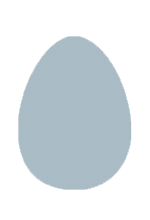
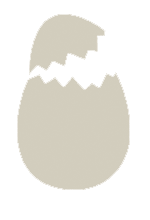
pre-midnight jam

diff --git a/index.html b/index.html
@@ -95,14 +95,6 @@
 
 		<div id='lessonsContent'>
 			<div class='contentDiv'>
-
-				<select id="lessonSelect">
-					<option value="initial" selected="selected" disabled="disabled">Pick a lesson type</option>
-					<option value="private">Private Lessons</option>
-					<option value="group">Group Lessons</option>
-					<option value="delf">DELF Lessons</option>
-				</select>
-
 				<!--Private Content-->
 				<div id="private" class="subContent">
 					<h2>How they work</h2>
@@ -113,20 +105,20 @@
 					<h2>Fees</h2>
 					<table id="privateFees">
 						<tr>
-							<td><strong>#Students</strong></td>
-							<td><strong>Price</strong></td>
+							<th>#Students</th>
+							<th>Price</th>
 						</tr>
 						<tr>
-							<td>1</td>
-							<td>$80/hr</td>
+							<td id="privateAlternate">1</td>
+							<td id="privateAlternate">$80/hr</td>
 						</tr>
 						<tr>
 							<td>2</td>
 							<td>$115/hr</td>
 						</tr>
 						<tr>
-							<td>3</td>
-							<td>$155/hr</td>
+							<td id="privateAlternate">3</td>
+							<td id="privateAlternate">$155/hr</td>
 						</tr>
 						<tr>
 							<td>4</td>
@@ -158,21 +150,21 @@
 					<h3>Consolidation - 10 weeks 1hr/wk</h3>
 					<p>Whether you feel you’d like to ‘put the brakes on’ your learning for a little while or whether you’d like to reinforce what you’ve learned while continuing on with your Key Courses, our new Monday night Consolidation Courses could be just what you’re looking for.These courses run throughout the year in ten-week blocks and cost $399. The first time you sign up, you’ll receive a workbook which is yours to keep. This workbook is designed to encourage you to speak.</p>
 					<h2>What's my level?</h2>
-					<table>
+					<table id="groupLevel">
 						<tr>
-							<td>egg</td>
-							<td>crac</td>
-							<td>chic</td>
-							<td>roos</td>
+							<th id="egg"></td>
+							<th id="crack"></td>
+							<th id="chick"></td>
+							<th id="rooster"></td>
 						</tr>
 						<tr>
-							<th>Absolute Beginners</th>
-							<th>Beginners</th>
-							<th>Intermediate</th>
-							<th>Advanced</th>
+							<td class="blueEgg"><strong>Absolute Beginners</strong></td>
+							<td class="greyCrack"><strong>Beginners</strong></td>
+							<td class="greyChick"><strong>Intermediate</strong></td>
+							<td class="redRooster"><strong>Advanced</strong></td>
 						</tr>
 						<tr>
-							<td>
+							<td class="blueEgg">
 								<p>For you if you have done:</p>
 								<ul>
 									<li>no French before at all</li>
@@ -180,7 +172,7 @@
 									<li>some French but wants to start afresh</li>
 								</ul>
 							</td>
-							<td>
+							<td class="greyCrack">
 								<p>For you if you have done:</p>
 								<ul>
 									<li>a moderate amount of French in the past</li>
@@ -188,7 +180,7 @@
 									<li>and intensive course in the past</li>
 								</ul>
 							</td>
-							<td>
+							<td class="greyChick">
 								<p>For you if you have done:</p>
 								<ul>
 									<li>quite a lot of French recently</li>
@@ -196,27 +188,26 @@
 									<li>some French at Uni but it was a long time ago...</li>
 								</ul>
 							</td>
-							<td>
+							<td class="redRooster">
 								<p>For you if you have done:</p>
 								<ul>
 									<li>have had a prolonged exposure to French</li>
 									<li>feel comfortable speaking exclusively in French</li>
-									<li></li>
 								</ul>
 							</td>
 						</tr>
 						<tr>
-							<td>
-								<div><p>more details</p></div>
+							<td class="blueEgg">
+								<p>more details</p>
 							</td>
-							<td>
-								<div><p>more details</p></div>
+							<td class="greyCrack">
+								<p>more details</p>
 							</td>
-							<td>
-								<div><p>more details</p></div>
+							<td class="greyChick">
+								<p>more details</p>
 							</td>
-							<td>
-								<div><p>more details</p></div>
+							<td class="redRooster">
+								<p>more details</p>
 							</td>
 						</tr>
 					</table>
@@ -227,7 +218,7 @@
 					<p><strong>Please note:</strong> if you are an Advanced student and you wish to practice your speaking, we also run an Advanced Conversation course at our Newstead office. See schedule for details.</p>
 					<p>If you are still unsure of your level, please <strong><a href="#contactBanner">contact us</a>.</strong> We'd be very happy to help.</p>
 					<h2>Audio support</h2>
-					<p>Lorem ipsum dolor sit amet, consectetur adipiscing elit, sed do eiusmod tempor incididunt ut labore et dolore magna aliqua. Ut enim ad minim veniam, quis nostrud exercitation ullamco laboris nisi ut aliquip ex ea commodo consequat. Duis aute irure dolor in reprehenderit in voluptate velit esse cillum dolore eu fugiat nulla pariatur. Excepteur sint occaecat cupidatat non proident, sunt in culpa qui officia deserunt mollit anim id est laborum.</p>
+					<p>[Insert explanation]</p>
 					<h3>Key courses</h3>
 					<a href="https://www.youtube.com/user/katrinawaugh/videos"><p>Absolute Beginner</p></a>
 					<a href="https://www.youtube.com/user/katrinawaugh/videos"><p>Beginner</p></a>
@@ -272,13 +263,13 @@
 						<li>Take advantage of our .Perks. program or</li>
 						<li>Pay upfront for 6 or 12 months to enjoy even greater benefits. </li>
 					</ul>
-					<p>Please be sure to read our <strong><a href="t&c.html">Terms and Conditions</a></strong> before you book a course. <em>Merci</em>.</p>
+					<p>Please be sure to read our <strong><a href="t&c.html">Terms and Conditions</a></strong> before you book a course. <em>Merci</em>.</p><!-- 
 					<p><img src="/storage/Title%20-%20Pay%20individually%20%20French%20lessons%20Brisbane.png?__SQUARESPACE_CACHEVERSION=1371017564672" alt=""></p>
 					<p>These are our standard course fees. </p>
 					<p><img src="/storage/dec-2014/Group%20lessons%20%20Fees%20%20Table%20of%20Fees%20%20French%20lessons%20Brisbane.png?__SQUARESPACE_CACHEVERSION=1418367326086" alt=""><br></p>
 					<p><img src="/storage/Title%20-%20.Perks.%20program%20%20French%20lessons%20Brisbane.png?__SQUARESPACE_CACHEVERSION=1418343264820" alt=""></p>
 					<p> Our .Perks. program allows you to benefit from a 5% reduction each time you satisfy one of the following three criteria. This means you could end up with a saving of 15%, which is a .Perk. in anyone's language.  </p>
-					<p><img src="/storage/The%20.Perks.%20graphic%20%20French%20lessons%20Brisbane.png?__SQUARESPACE_CACHEVERSION=1371023215054" alt="" naptha_cursor="text"></p>
+					<p><img src="/storage/The%20.Perks.%20graphic%20%20French%20lessons%20Brisbane.png?__SQUARESPACE_CACHEVERSION=1371023215054" alt="" naptha_cursor="text"></p> -->
 					<p><strong>.catch the worm. </strong></p>
 					<p>Book and pay before the nominated date to make sure you get exactly the class you want (and at a special price). See below for dates.</p>
 					<p><strong>take 5% off</strong></p>
@@ -288,13 +279,13 @@
 					<p><strong>.teacher's pet.</strong></p>
 					<p>Do you just love your French? Is it your 'thing'? If so, you're probably so keen that you'd even consider signing up for two different classes a week, to really accelerate your French. You're such a <a href="http://www.wordreference.com/fren/chouchou">chouchou</a>, we think you deserve a special price.</p>
 					<p><strong>take 5% off</strong></p>
-					<p><strong><img src="/storage/dec-2014/Group%20lessons%20%20Fees%20%20Table%20Catch%20the%20Worm%20dates%20%20French%20lessons%20Brisbane.png?__SQUARESPACE_CACHEVERSION=1418702803336" alt=""><br></strong></p>
-					<p><img src="/storage/Title-%20pay%20up%20front%20%20French%20lessons%20Brisbane.png?__SQUARESPACE_CACHEVERSION=1418366975161" alt=""></p>
+					<!-- <p><strong><img src="/storage/dec-2014/Group%20lessons%20%20Fees%20%20Table%20Catch%20the%20Worm%20dates%20%20French%20lessons%20Brisbane.png?__SQUARESPACE_CACHEVERSION=1418702803336" alt=""><br></strong></p>
+					<p><img src="/storage/Title-%20pay%20up%20front%20%20French%20lessons%20Brisbane.png?__SQUARESPACE_CACHEVERSION=1418366975161" alt=""></p> -->
 					<p>If you are really committed to learning French, like to be organised and want to reduce the amount of administration in your life, this option could be for you. No invoices, just the satisfaction of knowing your French is taken care of for the next six or twelve months. You just have to turn up.</p>
 					<p>We also know life changes, which is why we offer generous deferral options with our 'pay up front' plan.  You also benefit from a discount of more than 10%.</p>
 					<p>6 months - 10 week deferral option</p>
 					<p>12 months - 12 week deferral option</p>
-					<p><img src="/storage/2015/Fees%20%206%20and%2012%20months%20graphic%20%20French%20lessons%20Brisbane.png?__SQUARESPACE_CACHEVERSION=1431682277854" alt=""></p>
+					<!-- <p><img src="/storage/2015/Fees%20%206%20and%2012%20months%20graphic%20%20French%20lessons%20Brisbane.png?__SQUARESPACE_CACHEVERSION=1431682277854" alt=""></p> -->
 					<p>*Please note:  no other discounts apply. </p>
 				</div>
 

diff --git a/script/mainScript.js b/script/mainScript.js
@@ -28,11 +28,7 @@ function init(){
 		links[i].addEventListener("mouseout", linkMouseOut, false);
 	}
 
-	textInitialise();
-	document.getElementById("lessonSelect").value="initial";
-	document.getElementById("termSelect").value="initial";
-	document.getElementById("locationSelect").value="initial";
-
+	lessonInitialise();
 
 	if (document.getElementById('messageBox').value != 'Message'){
 		document.getElementById('messageBox').style.color = 'white';
@@ -42,12 +38,6 @@ function init(){
 	window.emailFilled = false;
 	window.subjectFilled = false;
 	window.messageFilled = false;
-
-	/*Event Listeners*/
-	window.addEventListener("scroll", offsetParallaxBackgrounds, false);
-	window.addEventListener("scroll", highlightCurrentSection, false);
-	document.getElementById('echantillonSignButton').addEventListener("click", togglePopup, false);
-	document.getElementById("lessonSelect").addEventListener("change",lessonUpdate,false);
 	
 	window.contactForms = document.getElementsByClassName('formInput');
 	for (var i = 0; i < contactForms.length; i++){
@@ -72,7 +62,9 @@ function init(){
 	window.addEventListener("scroll", highlightCurrentSection, false);
 	document.getElementById('echantillonSignButton').addEventListener("click", togglePopup, false);
 	document.getElementById('FAQbutton').addEventListener("click", togglePopup, false);
-	document.getElementById("lessonSelect").addEventListener("change",lessonUpdate,false);
+	document.getElementById("privateSelect").addEventListener("click",lessonUpdate,false);
+	document.getElementById("groupSelect").addEventListener("click",lessonUpdate,false);
+	document.getElementById("delfSelect").addEventListener("click",lessonUpdate,false);
 	document.getElementById("termSelect").addEventListener("change",tableUpdate,false);
 	document.getElementById("locationSelect").addEventListener("change",tableUpdate,false);
 	document.getElementById("wtermSelect").addEventListener("change",workUpdate,false);
@@ -421,23 +413,24 @@ function init(){
 		}
 
 	/*Lessons Content Updating*/
-	function lessonUpdate(){
-		if(document.getElementById("lessonSelect").value=="private"){
+	function lessonUpdate(event){
+		var button = event.target.id;
+		if (button == "privateSelect"){
 			zUpdate(1,0,0);
 			opacityUpdate(1,0,0);
 			document.getElementById("lessonsContent").style.height=String(document.getElementById("private").offsetHeight+140)+"px";
-		} else if(document.getElementById("lessonSelect").value=="group"){
+		} else if (button == "groupSelect"){
 			zUpdate(0,1,0);
 			opacityUpdate(0,1,0);
 			document.getElementById("lessonsContent").style.height=String(document.getElementById("group").offsetHeight+140)+"px";
-		} else if(document.getElementById("lessonSelect").value=="delf"){
+		} else if (button == "delfSelect"){
 			zUpdate(0,0,1);
 			opacityUpdate(0,0,1);
 			document.getElementById("lessonsContent").style.height=String(document.getElementById("delf").offsetHeight+140)+"px";
 		}
 	}
 
-	function textInitialise(){
+	function lessonInitialise(){
 		document.getElementById("private").style.opacity="0";
 		document.getElementById("group").style.opacity="0";
 		document.getElementById("delf").style.opacity="0";

diff --git a/css/mainStyle.css b/css/mainStyle.css
@@ -402,10 +402,57 @@ header {
 	/*Tables*/
 	table{
 		margin: 0px auto;
-		text-align: center
+		text-align: center;
 	}
-	#privateFees{
+	table p, ul{
+		margin: 0;
+	}
 
+	#egg{
+		background-image: url("../images/lessons/lessonsEgg.png");
+	}
+	#crack{
+		background-image: url("../images/lessons/lessonsCrack.png");
+	}
+	#chick{
+		background-image: url("../images/lessons/lessonsChick.png");
+	}
+	#rooster{
+		background-image: url("../images/lessons/lessonsRooster.png");
+	}
+
+	#privateFees{
+		background-color: #AABFC9;
+		width: 150px;
+		border: none;
+	}
+	#privateAlternate{
+		background-color: #FFFCEF;
+	}
+
+	#groupLevel th{
+		height: 186px;
+		background-repeat: no-repeat;
+		background-position: center;
+		color: white;
+	}
+	#groupLevel td{
+		margin: 3px;
+		padding: 2px;
+		color: white;
+
+	}
+	.blueEgg{
+		background-color: #AABFC9;
+	}
+	.greyCrack{
+		background-color: #D2CDBD;
+	}
+	.greyChick{
+		background-color: #656666;
+	}
+	.redRooster{
+		background-color: #C01D29;
 	}
 
 	#delfSchedule{
